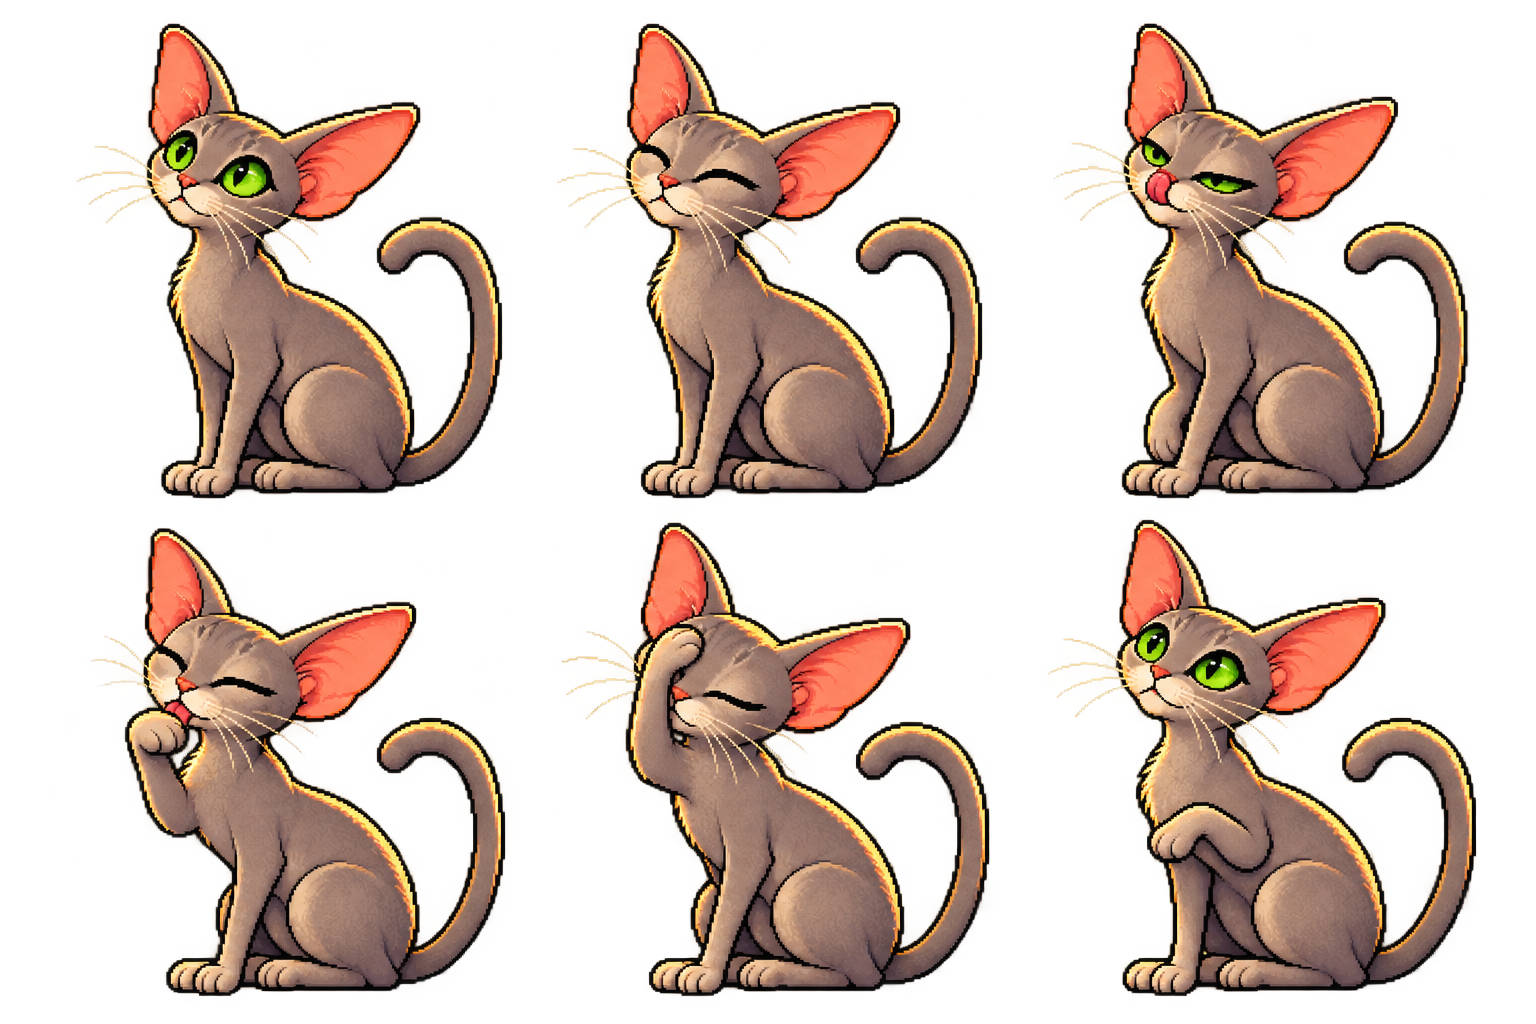
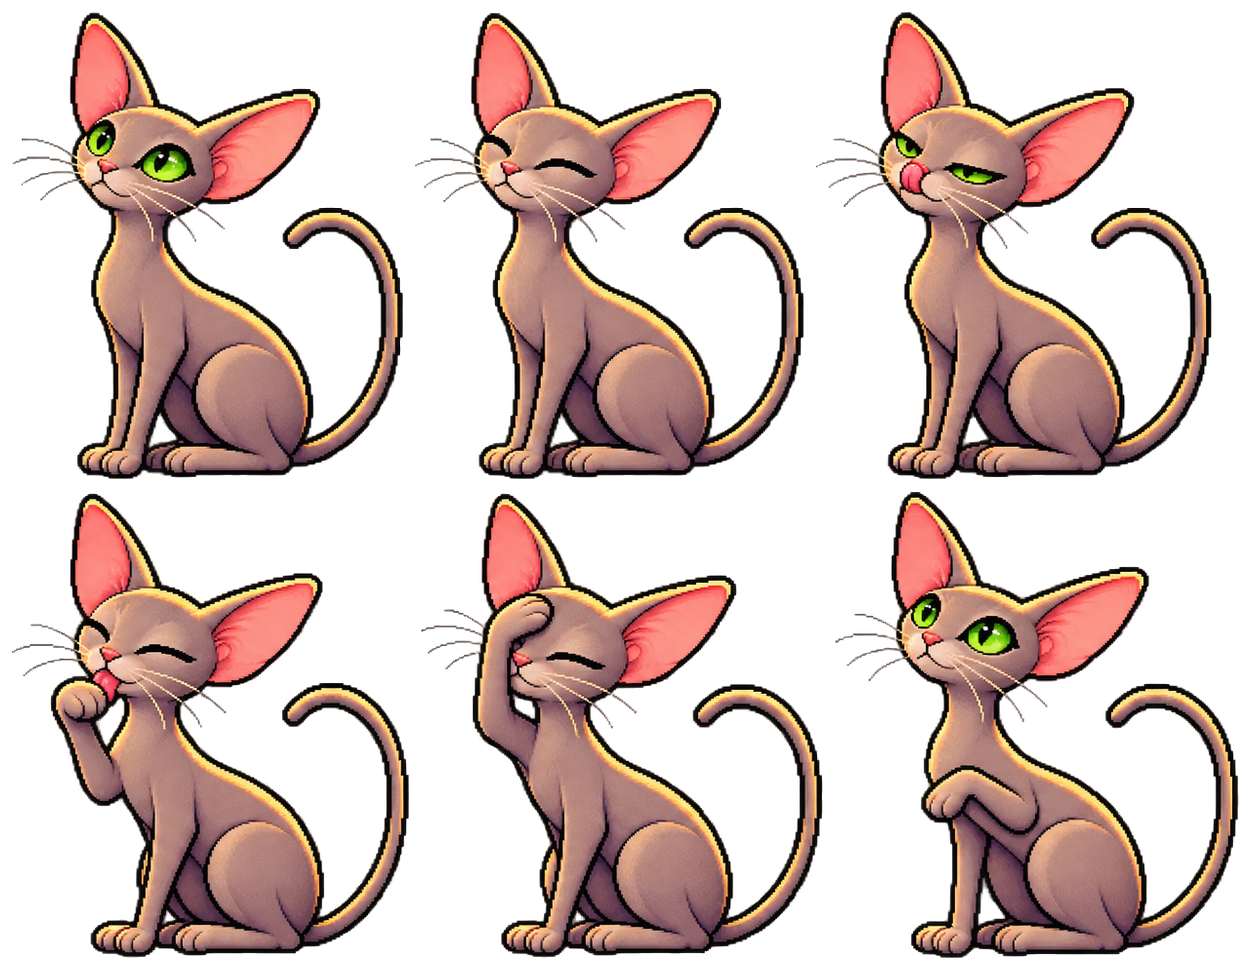
Main menu cat: new idle sheet registered on the rear paw
Claude-Session: https://claude.ai/code/session_01CNS5ua52pLKCa7cQw7qmFC

diff --git a/index.html b/index.html
@@ -5,7 +5,7 @@
 <meta name="theme-color" content="#030a1e"><meta name="description" content="УМА ПРОТИВ ИНФОШУМА — держи ухо востро. Пиксельная игра про кошку Уму и ожившие новости.">
 <title>УМА ПРОТИВ ИНФОШУМА — держи ухо востро</title>
 <link rel="preload" href="./assets/game-heading.png?v=0.21.5" as="image"><link rel="icon" href="favicon.svg" type="image/svg+xml"><link rel="stylesheet" href="style.css?v=0.21.5-fb7"><link rel="stylesheet" href="story-ui.css?v=0.21.5">
-<script type="importmap">{"imports":{"./static-art.js?v=0.21.5":"./static-art.js?v=0.21.5-source","./dimension-art.js?v=0.21.5":"./dimension-art.js?v=0.21.5-dim2","./dimension-systems.js?v=0.21.5":"./dimension-systems.js?v=0.21.5-dim2","./dimension-map.js?v=0.21.5":"./dimension-map.js?v=0.21.5-dim2","./interference-art.js?v=0.21.5":"./interference-art.js?v=0.21.5-cat","./player-rest.js?v=0.21.5":"./player-rest.js?v=0.21.5-source","./echo-double-art.js?v=0.21.5":"./echo-double-art.js?v=0.21.5-echo2","./echo-double.js?v=0.21.5":"./echo-double.js?v=0.21.5-source","./controls-art.js?v=0.21.5":"./controls-art.js?v=0.21.5-moods","./drop-through.js?v=0.21.5":"./drop-through.js?v=0.21.5-source","./cat-animation.js?v=0.21.5":"./cat-animation.js?v=0.21.5-cat","./botfarm-art.js?v=0.21.5":"./botfarm-art.js?v=0.21.5-art3","./botfarm.js?v=0.21.5":"./botfarm.js?v=0.21.5-fb3","./studio-systems.js?v=0.21.5":"./studio-systems.js?v=0.21.5-stage4","./studio-map.js?v=0.21.5":"./studio-map.js?v=0.21.5-fb3","./studio-art.js?v=0.21.5":"./studio-art.js?v=0.21.5-studio2","./studio-container-art.js?v=0.21.5":"./studio-container-art.js?v=0.21.5-stage4","./pit-falls.js?v=0.21.5":"./pit-falls.js?v=0.21.5-studio2","./campaign-enemies.js?v=0.21.5":"./campaign-enemies.js?v=0.21.5-jelly","./art.js?v=0.21.5":"./art.js?v=0.21.5-jelly","./finale.js?v=0.21.5":"./finale.js?v=0.21.5-fb8","./boss-phases.js?v=0.21.5":"./boss-phases.js?v=0.21.5-final","./assets.js?v=0.21.5":"./assets.js?v=0.21.5-cat","./boss.js?v=0.21.5":"./boss.js?v=0.21.5-cat","./boss-abilities.js?v=0.21.5":"./boss-abilities.js?v=0.21.5-roofs","./boss-art.js?v=0.21.5":"./boss-art.js?v=0.21.5-spreader2","./enemies.js?v=0.21.5":"./enemies.js?v=0.21.5-fb3","./render.js?v=0.21.5":"./render.js?v=0.21.5-fb5","./dimension-monsters-art.js?v=0.21.5":"./dimension-monsters-art.js?v=0.21.5-jelly","./loading-art.js?v=0.21.5":"./loading-art.js?v=0.21.5-final","./studio-monsters.js?v=0.21.5":"./studio-monsters.js?v=0.21.5-studio2","./paparazzi.js?v=0.21.5":"./paparazzi.js?v=0.21.5-fb4","./new-monsters-art.js?v=0.21.5":"./new-monsters-art.js?v=0.21.5-studio2","./tactical-art.js?v=0.21.5":"./tactical-art.js?v=0.21.5-art3","./boss-attack-fx.js?v=0.21.5":"./boss-attack-fx.js?v=0.21.5-stage6","./level.js?v=0.21.5":"./level.js?v=0.21.5-story","./campaign-art.js?v=0.21.5":"./campaign-art.js?v=0.21.5-dim2","./stage-art.js?v=0.21.5":"./stage-art.js?v=0.21.5-source","./engine.js?v=0.21.5":"./engine.js?v=0.21.5-storm","./shield-art.js?v=0.21.5":"./shield-art.js?v=0.21.5-studio","./spreader-combat.js?v=0.21.5":"./spreader-combat.js?v=0.21.5-stage1","./room-transitions.js?v=0.21.5":"./room-transitions.js?v=0.21.5-fb4","./projectile-art.js?v=0.21.5":"./projectile-art.js?v=0.21.5-reference","./spreader-minion-art.js?v=0.21.5":"./spreader-minion-art.js?v=0.21.5-tirazh","./catalog.js?v=0.21.5":"./catalog.js?v=0.21.5-fb4","./boss-defeat-art.js?v=0.21.5":"./boss-defeat-art.js?v=0.21.5-montage","./infoshum-combat.js?v=0.21.5":"./infoshum-combat.js?v=0.21.5-cat","./infoshum-art.js?v=0.21.5":"./infoshum-art.js?v=0.21.5-cat","./infoshum-sprites.js?v=0.21.5":"./infoshum-sprites.js?v=0.21.5-broadcast","./spreader-arena-art.js?v=0.21.5":"./spreader-arena-art.js?v=0.21.5-spreader2","./boss-hud.js?v=0.21.5":"./boss-hud.js?v=0.21.5-stage1","./game.js?v=0.21.5":"./game.js?v=0.21.5-fb6","./audio.js?v=0.21.5":"./audio.js?v=0.21.5-studio2","./story.js?v=0.21.5":"./story.js?v=0.21.5-fb4","./terrain.js?v=0.21.5":"./terrain.js?v=0.21.5-art3","./world-platforms.js?v=0.21.5":"./world-platforms.js?v=0.21.5-colossus","./manipulator-combat.js?v=0.21.5":"./manipulator-combat.js?v=0.21.5-crane2","./manipulator-art.js?v=0.21.5":"./manipulator-art.js?v=0.21.5-loading","./route-transition-art.js?v=0.21.5":"./route-transition-art.js?v=0.21.5-studio","./agitator-combat.js?v=0.21.5":"./agitator-combat.js?v=0.21.5-cat","./agitator-art.js?v=0.21.5":"./agitator-art.js?v=0.21.5-fb4","./infoshum-tentacle-art.js?v=0.21.5":"./infoshum-tentacle-art.js?v=0.21.5-broadcast","./chapter-route-art.js?v=0.21.5":"./chapter-route-art.js?v=0.21.5-conveyor","./chapter-routes.js?v=0.21.5":"./chapter-routes.js?v=0.21.5-dim2","./chapter-systems.js?v=0.21.5":"./chapter-systems.js?v=0.21.5-echo2","./encounters.js?v=0.21.5":"./encounters.js?v=0.21.5-studio2","./monster-animation.js?v=0.21.5":"./monster-animation.js?v=0.21.5-art3","./monster-guides.js?v=0.21.5":"./monster-guides.js?v=0.21.5-fb4","./newsroom-art.js?v=0.21.5":"./newsroom-art.js?v=0.21.5-fb5","./passage-art.js?v=0.21.5":"./passage-art.js?v=0.21.5-cat","./tactical-enemies.js?v=0.21.5":"./tactical-enemies.js?v=0.21.5-art3","./yuri-portrait.js?v=0.21.5":"./yuri-portrait.js?v=0.21.5-conveyor","./target-highlight.js?v=0.21.5":"./target-highlight.js?v=0.21.5-colossus","./spreader-art.js?v=0.21.5":"./spreader-art.js?v=0.21.5-tirazh","./shelters.js?v=0.21.5":"./shelters.js?v=0.21.5-spreader2","./signal-art.js?v=0.21.5":"./signal-art.js?v=0.21.5-fb3","./navigation-art.js?v=0.21.5":"./navigation-art.js?v=0.21.5-loading","./pixel.js?v=0.21.5":"./pixel.js?v=0.21.5-tutorial","./tutorial.js?v=0.21.5":"./tutorial.js?v=0.21.5-tutorial","./tutorial-art.js?v=0.21.5":"./tutorial-art.js?v=0.21.5-colossus","./readability.js?v=0.21.5":"./readability.js?v=0.21.5-source","./roofs-map.js?v=0.21.5":"./roofs-map.js?v=0.21.5-fb9","./roofs-systems.js?v=0.21.5":"./roofs-systems.js?v=0.21.5-fb3","./roofs-art.js?v=0.21.5":"./roofs-art.js?v=0.21.5-fb9","./agitator-map.js?v=0.21.5":"./agitator-map.js?v=0.21.5-agitator3","./pause-menu.js?v=0.21.5":"./pause-menu.js?v=0.21.5-agitator3","./hud-sprites.js?v=0.21.5":"./hud-sprites.js?v=0.21.5-hudbars","./screens.js?v=0.21.5":"./screens.js?v=0.21.5-studio2","./enemy-arrival-art.js?v=0.21.5":"./enemy-arrival-art.js?v=0.21.5-stage2","./infoshum-atlas.js?v=0.21.5":"./infoshum-atlas.js?v=0.21.5-tower","./chapter-story.js?v=0.21.5":"./chapter-story.js?v=0.21.5-broadcast2","./prologue.js?v=0.21.5":"./prologue.js?v=0.21.5-story","./ending-ui.js?v=0.21.5":"./ending-ui.js?v=0.21.5-fb8","./story-art.js?v=0.21.5":"./story-art.js?v=0.21.5-broadcast2"}}</script>
+<script type="importmap">{"imports":{"./static-art.js?v=0.21.5":"./static-art.js?v=0.21.5-source","./dimension-art.js?v=0.21.5":"./dimension-art.js?v=0.21.5-dim2","./dimension-systems.js?v=0.21.5":"./dimension-systems.js?v=0.21.5-dim2","./dimension-map.js?v=0.21.5":"./dimension-map.js?v=0.21.5-dim2","./interference-art.js?v=0.21.5":"./interference-art.js?v=0.21.5-cat","./player-rest.js?v=0.21.5":"./player-rest.js?v=0.21.5-source","./echo-double-art.js?v=0.21.5":"./echo-double-art.js?v=0.21.5-echo2","./echo-double.js?v=0.21.5":"./echo-double.js?v=0.21.5-source","./controls-art.js?v=0.21.5":"./controls-art.js?v=0.21.5-moods","./drop-through.js?v=0.21.5":"./drop-through.js?v=0.21.5-source","./cat-animation.js?v=0.21.5":"./cat-animation.js?v=0.21.5-cat","./botfarm-art.js?v=0.21.5":"./botfarm-art.js?v=0.21.5-art3","./botfarm.js?v=0.21.5":"./botfarm.js?v=0.21.5-fb3","./studio-systems.js?v=0.21.5":"./studio-systems.js?v=0.21.5-stage4","./studio-map.js?v=0.21.5":"./studio-map.js?v=0.21.5-fb3","./studio-art.js?v=0.21.5":"./studio-art.js?v=0.21.5-studio2","./studio-container-art.js?v=0.21.5":"./studio-container-art.js?v=0.21.5-stage4","./pit-falls.js?v=0.21.5":"./pit-falls.js?v=0.21.5-studio2","./campaign-enemies.js?v=0.21.5":"./campaign-enemies.js?v=0.21.5-jelly","./art.js?v=0.21.5":"./art.js?v=0.21.5-jelly","./finale.js?v=0.21.5":"./finale.js?v=0.21.5-fb8","./boss-phases.js?v=0.21.5":"./boss-phases.js?v=0.21.5-final","./assets.js?v=0.21.5":"./assets.js?v=0.21.5-cat2","./boss.js?v=0.21.5":"./boss.js?v=0.21.5-cat","./boss-abilities.js?v=0.21.5":"./boss-abilities.js?v=0.21.5-roofs","./boss-art.js?v=0.21.5":"./boss-art.js?v=0.21.5-spreader2","./enemies.js?v=0.21.5":"./enemies.js?v=0.21.5-fb3","./render.js?v=0.21.5":"./render.js?v=0.21.5-fb5","./dimension-monsters-art.js?v=0.21.5":"./dimension-monsters-art.js?v=0.21.5-jelly","./loading-art.js?v=0.21.5":"./loading-art.js?v=0.21.5-final","./studio-monsters.js?v=0.21.5":"./studio-monsters.js?v=0.21.5-studio2","./paparazzi.js?v=0.21.5":"./paparazzi.js?v=0.21.5-fb4","./new-monsters-art.js?v=0.21.5":"./new-monsters-art.js?v=0.21.5-studio2","./tactical-art.js?v=0.21.5":"./tactical-art.js?v=0.21.5-art3","./boss-attack-fx.js?v=0.21.5":"./boss-attack-fx.js?v=0.21.5-stage6","./level.js?v=0.21.5":"./level.js?v=0.21.5-story","./campaign-art.js?v=0.21.5":"./campaign-art.js?v=0.21.5-dim2","./stage-art.js?v=0.21.5":"./stage-art.js?v=0.21.5-source","./engine.js?v=0.21.5":"./engine.js?v=0.21.5-storm","./shield-art.js?v=0.21.5":"./shield-art.js?v=0.21.5-studio","./spreader-combat.js?v=0.21.5":"./spreader-combat.js?v=0.21.5-stage1","./room-transitions.js?v=0.21.5":"./room-transitions.js?v=0.21.5-fb4","./projectile-art.js?v=0.21.5":"./projectile-art.js?v=0.21.5-reference","./spreader-minion-art.js?v=0.21.5":"./spreader-minion-art.js?v=0.21.5-tirazh","./catalog.js?v=0.21.5":"./catalog.js?v=0.21.5-fb4","./boss-defeat-art.js?v=0.21.5":"./boss-defeat-art.js?v=0.21.5-montage","./infoshum-combat.js?v=0.21.5":"./infoshum-combat.js?v=0.21.5-cat","./infoshum-art.js?v=0.21.5":"./infoshum-art.js?v=0.21.5-cat","./infoshum-sprites.js?v=0.21.5":"./infoshum-sprites.js?v=0.21.5-broadcast","./spreader-arena-art.js?v=0.21.5":"./spreader-arena-art.js?v=0.21.5-spreader2","./boss-hud.js?v=0.21.5":"./boss-hud.js?v=0.21.5-stage1","./game.js?v=0.21.5":"./game.js?v=0.21.5-fb6","./audio.js?v=0.21.5":"./audio.js?v=0.21.5-studio2","./story.js?v=0.21.5":"./story.js?v=0.21.5-fb4","./terrain.js?v=0.21.5":"./terrain.js?v=0.21.5-art3","./world-platforms.js?v=0.21.5":"./world-platforms.js?v=0.21.5-colossus","./manipulator-combat.js?v=0.21.5":"./manipulator-combat.js?v=0.21.5-crane2","./manipulator-art.js?v=0.21.5":"./manipulator-art.js?v=0.21.5-loading","./route-transition-art.js?v=0.21.5":"./route-transition-art.js?v=0.21.5-studio","./agitator-combat.js?v=0.21.5":"./agitator-combat.js?v=0.21.5-cat","./agitator-art.js?v=0.21.5":"./agitator-art.js?v=0.21.5-fb4","./infoshum-tentacle-art.js?v=0.21.5":"./infoshum-tentacle-art.js?v=0.21.5-broadcast","./chapter-route-art.js?v=0.21.5":"./chapter-route-art.js?v=0.21.5-conveyor","./chapter-routes.js?v=0.21.5":"./chapter-routes.js?v=0.21.5-dim2","./chapter-systems.js?v=0.21.5":"./chapter-systems.js?v=0.21.5-echo2","./encounters.js?v=0.21.5":"./encounters.js?v=0.21.5-studio2","./monster-animation.js?v=0.21.5":"./monster-animation.js?v=0.21.5-art3","./monster-guides.js?v=0.21.5":"./monster-guides.js?v=0.21.5-fb4","./newsroom-art.js?v=0.21.5":"./newsroom-art.js?v=0.21.5-fb5","./passage-art.js?v=0.21.5":"./passage-art.js?v=0.21.5-cat","./tactical-enemies.js?v=0.21.5":"./tactical-enemies.js?v=0.21.5-art3","./yuri-portrait.js?v=0.21.5":"./yuri-portrait.js?v=0.21.5-conveyor","./target-highlight.js?v=0.21.5":"./target-highlight.js?v=0.21.5-colossus","./spreader-art.js?v=0.21.5":"./spreader-art.js?v=0.21.5-tirazh","./shelters.js?v=0.21.5":"./shelters.js?v=0.21.5-spreader2","./signal-art.js?v=0.21.5":"./signal-art.js?v=0.21.5-fb3","./navigation-art.js?v=0.21.5":"./navigation-art.js?v=0.21.5-loading","./pixel.js?v=0.21.5":"./pixel.js?v=0.21.5-tutorial","./tutorial.js?v=0.21.5":"./tutorial.js?v=0.21.5-tutorial","./tutorial-art.js?v=0.21.5":"./tutorial-art.js?v=0.21.5-colossus","./readability.js?v=0.21.5":"./readability.js?v=0.21.5-source","./roofs-map.js?v=0.21.5":"./roofs-map.js?v=0.21.5-fb9","./roofs-systems.js?v=0.21.5":"./roofs-systems.js?v=0.21.5-fb3","./roofs-art.js?v=0.21.5":"./roofs-art.js?v=0.21.5-fb9","./agitator-map.js?v=0.21.5":"./agitator-map.js?v=0.21.5-agitator3","./pause-menu.js?v=0.21.5":"./pause-menu.js?v=0.21.5-agitator3","./hud-sprites.js?v=0.21.5":"./hud-sprites.js?v=0.21.5-hudbars","./screens.js?v=0.21.5":"./screens.js?v=0.21.5-studio2","./enemy-arrival-art.js?v=0.21.5":"./enemy-arrival-art.js?v=0.21.5-stage2","./infoshum-atlas.js?v=0.21.5":"./infoshum-atlas.js?v=0.21.5-tower","./chapter-story.js?v=0.21.5":"./chapter-story.js?v=0.21.5-broadcast2","./prologue.js?v=0.21.5":"./prologue.js?v=0.21.5-story","./ending-ui.js?v=0.21.5":"./ending-ui.js?v=0.21.5-fb8","./story-art.js?v=0.21.5":"./story-art.js?v=0.21.5-broadcast2","./menu-animation.js?v=0.21.5":"./menu-animation.js?v=0.21.5-cat2"}}</script>
 </head>
 <body>
 <main id="app" data-screen="menu">
@@ -70,5 +70,5 @@
 
 <div id="hud-status" class="sr-only" aria-live="polite"></div>
 <div id="accessible-state" class="sr-only" aria-live="polite"></div>
-</main><script type="module" src="game.js?v=0.21.5-cat"></script>
+</main><script type="module" src="game.js?v=0.21.5-cat2"></script>
 </body></html>

diff --git a/assets.js b/assets.js
@@ -8,7 +8,7 @@ export const cats=[
  {box:[14,14,467,375],anchor:.70},{box:[495,14,468,327],anchor:.67},{box:[977,14,495,315],anchor:.68},
  {box:[14,403,490,336],anchor:.65},{box:[518,403,456,372],anchor:.58},{box:[988,403,323,363],anchor:.53}
 ];
-export const idleCats=[[87,24,415,474],[569,24,413,474],[1065,24,402,474],[113,529,392,467],[568,523,421,473],[1055,520,421,476]];
+export const idleCats=[[12,12,391,467],[415,13,389,466],[816,12,396,467],[12,493,397,465],[421,493,402,465],[835,492,404,466]];
 export const creatures={crawler:[55,295,590,305],flyer:[677,118,565,486],boss:[15,641,798,567],fish:[898,910,325,200]};
 export const newCreatures={clickbait:[28,18,591,581],inflator:[637,61,586,538],panicker:[54,648,542,545],soup:[771,639,340,530]};
 export function sprite(c,image,box,x,y,w,h,flip=false){c.save();c.translate(Math.round(x),Math.round(y));if(flip){c.translate(w,0);c.scale(-1,1);}c.drawImage(image,...box,0,0,w,h);c.restore();}

diff --git a/menu-animation.js b/menu-animation.js
@@ -12,12 +12,12 @@ export function idleFrame(time){
 // Register each pose to the same rear paw, at one source-pixel scale.
 // Tight-crop height and changing ear position must never resize the whole cat.
 const poses=[
- {box:[87,24,415,474],anchor:[331,497]},
- {box:[569,24,413,474],anchor:[813,497]},
- {box:[1065,24,402,474],anchor:[1290,497]},
- {box:[113,529,392,467],anchor:[331,994]},
- {box:[568,523,421,473],anchor:[813,994]},
- {box:[1055,520,421,476],anchor:[1288,994]}
+ {box:[12,12,391,467],anchor:[293,479]},
+ {box:[415,13,389,466],anchor:[694,479]},
+ {box:[816,12,396,467],anchor:[1104,479]},
+ {box:[12,493,397,465],anchor:[318,958]},
+ {box:[421,493,402,465],anchor:[727,958]},
+ {box:[835,492,404,466],anchor:[1144,958]}
 ];
 export function idlePlacement(time,height=480,placement={}){
  const {frame,action}=idleFrame(time),{box,anchor}=poses[frame],tall=height>700;
